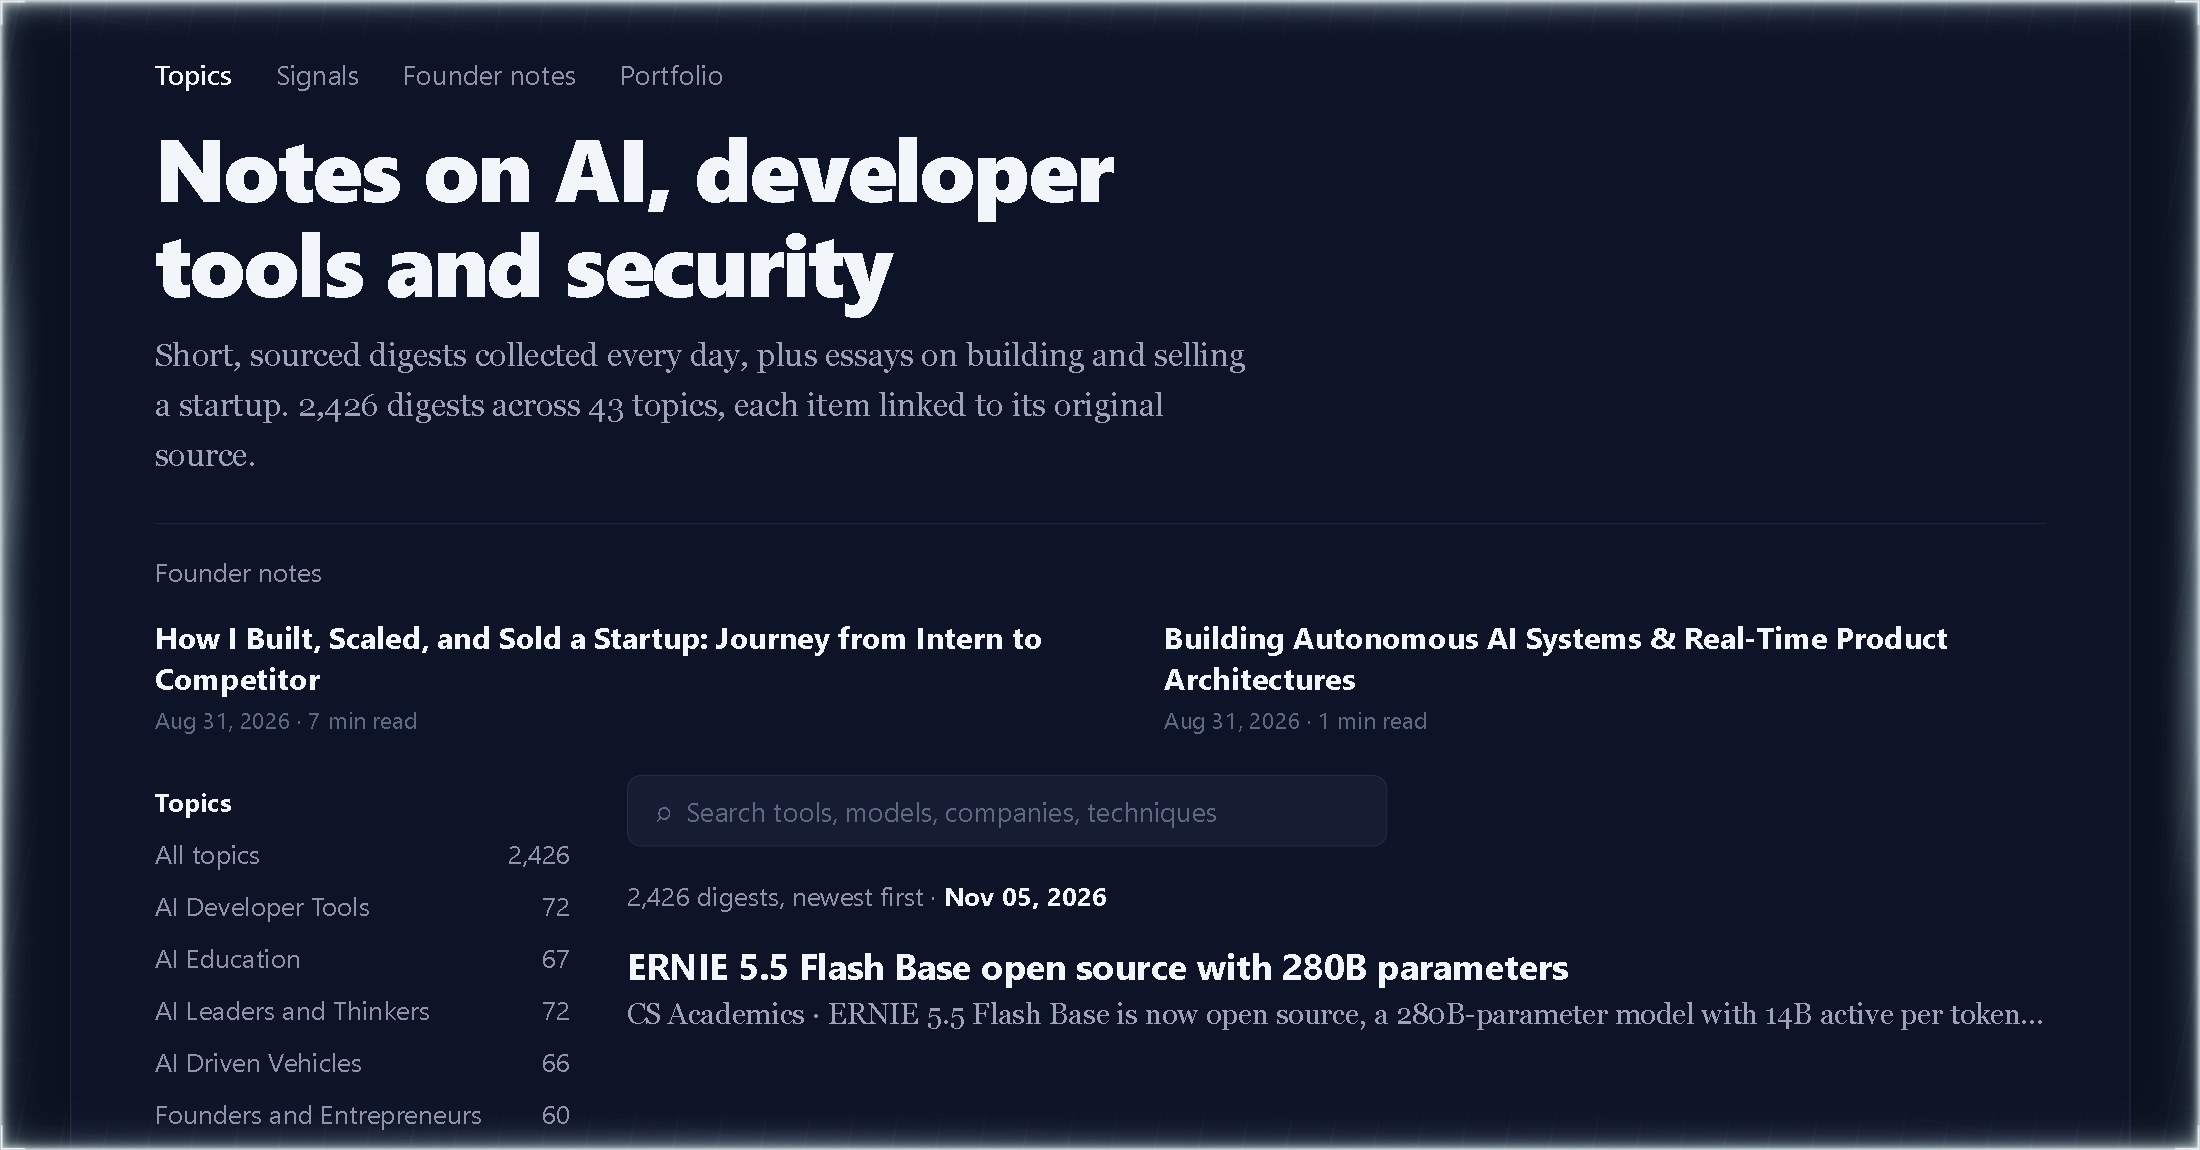
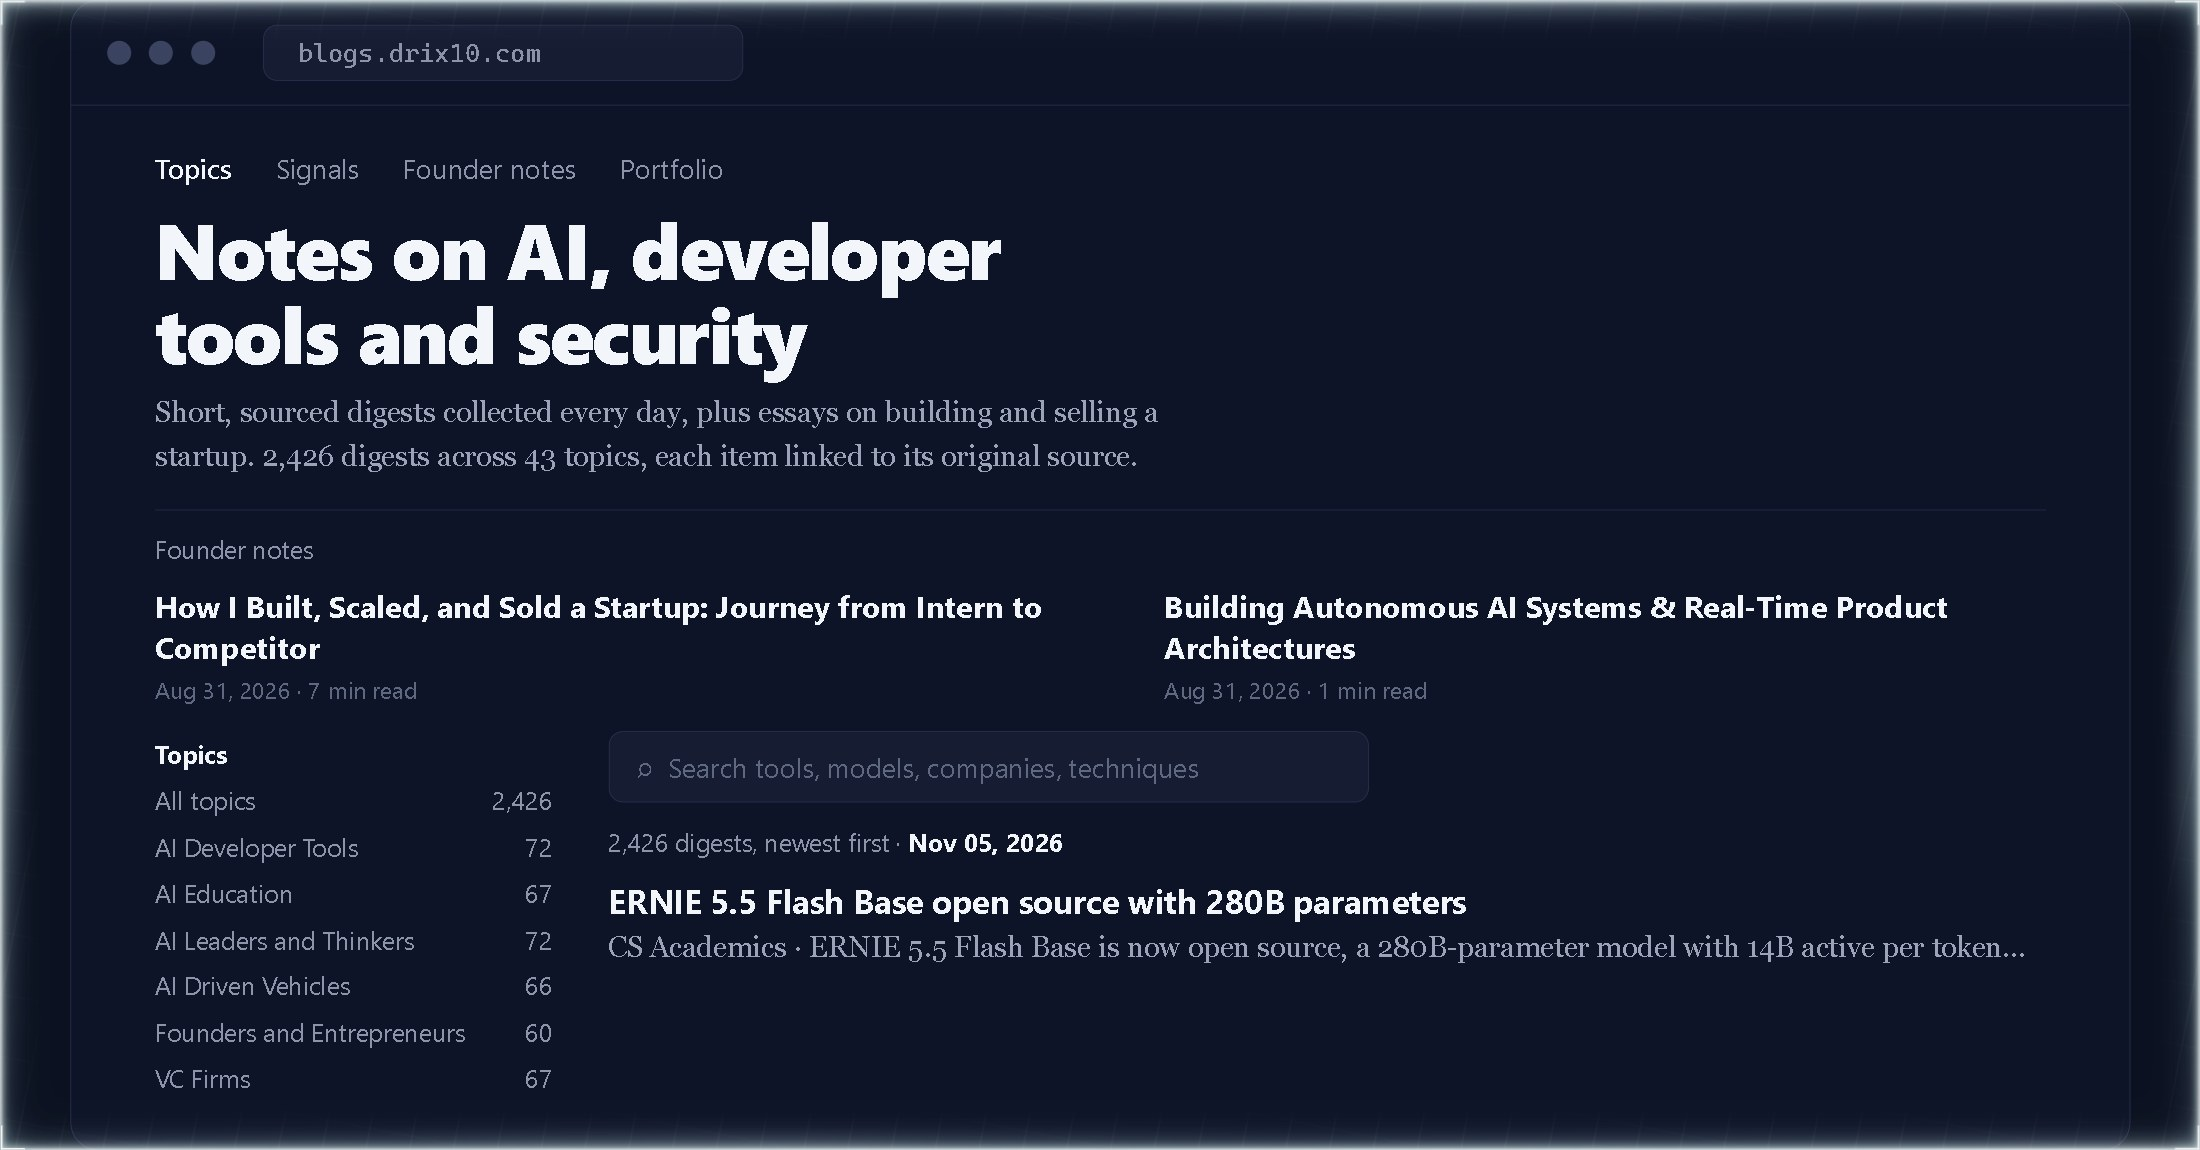
Fix image clipping: fit all content to exact target sizes

diff --git a/assets/readme/src/briefing.html b/assets/readme/src/briefing.html
@@ -3,24 +3,24 @@
 <style>
   * { margin:0; padding:0; box-sizing:border-box; }
   body { width:2560px; height:1200px; background:#0B1120; color:#F2F5FA; font-family:"Segoe UI",system-ui,sans-serif; overflow:hidden; display:flex; align-items:center; justify-content:center; gap:70px; }
-  .card { width:1310px; background:#131A30; border:1px solid #28314F; border-radius:28px; padding:56px 68px; }
+  .card { width:1310px; background:#131A30; border:1px solid #28314F; border-radius:28px; padding:44px 68px; }
   .meta { display:flex; align-items:center; justify-content:space-between; border-bottom:1px solid #232B47; padding-bottom:34px; font-family:"Cascadia Code",Consolas,monospace; font-size:29px; color:#8B94A9; }
   .ok { color:#3ED598; border:1px solid #1F5C44; background:#12281F; border-radius:14px; padding:12px 26px; font-size:27px; }
-  h2 { font-size:62px; font-weight:800; line-height:1.28; margin:44px 0 34px; letter-spacing:-1px; }
-  .side { position:relative; padding-left:78px; margin:30px 0; }
+  h2 { font-size:57px; font-weight:800; line-height:1.24; margin:32px 0 26px; letter-spacing:-1px; }
+  .side { position:relative; padding-left:78px; margin:22px 0; }
   .side .n { position:absolute; left:0; top:2px; width:52px; height:52px; border-radius:50%; background:#8B93FF; color:#0B1120; font-weight:800; font-size:30px; display:flex; align-items:center; justify-content:center; }
   .side p { font-family:Georgia,serif; font-size:36px; line-height:1.6; color:#C3CCDF; }
-  .kp { font-size:30px; color:#8B94A9; margin:34px 0 20px; }
+  .kp { font-size:29px; color:#8B94A9; margin:28px 0 16px; }
   .bul { font-family:Georgia,serif; font-size:34px; line-height:1.6; color:#C3CCDF; margin-left:34px; }
   .bul b { color:#F5B544; font-family:"Cascadia Code",Consolas,monospace; font-weight:700; }
   .link { font-family:"Cascadia Code",Consolas,monospace; font-size:30px; color:#8B94A9; margin-top:22px; }
   .link a { color:#8B93FF; text-decoration:none; }
-  .right { width:640px; }
-  .step { display:flex; gap:26px; margin-bottom:56px; }
+  .right { width:640px; padding-top:6px; }
+  .step { display:flex; gap:24px; margin-bottom:44px; }
   .step .n { flex:none; width:58px; height:58px; border-radius:50%; background:#8B93FF; color:#0B1120; font-weight:800; font-size:32px; display:flex; align-items:center; justify-content:center; }
-  .step h4 { font-size:38px; font-weight:700; margin-bottom:10px; }
-  .step p { font-size:31px; line-height:1.5; color:#8B94A9; }
-  .gate { border:1px solid #1F5C44; background:#0F241B; border-radius:22px; padding:34px 38px; font-size:31px; line-height:1.55; color:#C3CCDF; }
+  .step h4 { font-size:36px; font-weight:700; margin-bottom:8px; }
+  .step p { font-size:30px; line-height:1.48; color:#8B94A9; }
+  .gate { border:1px solid #1F5C44; background:#0F241B; border-radius:22px; padding:30px 34px; font-size:30px; line-height:1.5; color:#C3CCDF; }
   .gate b { color:#3ED598; }
 </style></head>
 <body>

diff --git a/assets/readme/src/blog.html b/assets/readme/src/blog.html
@@ -7,23 +7,23 @@
   .bar { display:flex; align-items:center; gap:18px; padding:24px 36px; border-bottom:1px solid #28314F; }
   .d { width:24px; height:24px; border-radius:50%; background:#3A4360; }
   .url { margin-left:30px; background:#161D33; border:1px solid #28314F; border-radius:14px; padding:12px 34px; font-family:"Cascadia Code",Consolas,monospace; font-size:26px; color:#8B94A9; width:480px; }
-  .body { padding:56px 84px 64px; }
+  .body { padding:44px 84px 48px; }
   .nav { display:flex; gap:44px; font-size:27px; color:#8B94A9; margin-bottom:10px; }
   .nav b { color:#F2F5FA; font-weight:600; }
-  h1 { font-size:88px; font-weight:800; letter-spacing:-2px; line-height:1.08; margin:26px 0 22px; max-width:1200px; }
-  .sub { font-family:Georgia,serif; font-size:32px; line-height:1.55; color:#9AA3B8; max-width:1100px; }
-  .sec { margin-top:44px; border-top:1px solid #232B47; padding-top:30px; font-size:26px; color:#8B94A9; }
-  .cols { display:flex; gap:60px; margin-top:26px; }
+  h1 { font-size:78px; font-weight:800; letter-spacing:-2px; line-height:1.08; margin:20px 0 16px; max-width:1200px; }
+  .sub { font-family:Georgia,serif; font-size:29px; line-height:1.5; color:#9AA3B8; max-width:1100px; }
+  .sec { margin-top:32px; border-top:1px solid #232B47; padding-top:22px; font-size:25px; color:#8B94A9; }
+  .cols { display:flex; gap:60px; margin-top:20px; }
   .founder h4 { font-size:30px; margin-bottom:6px; }
   .founder p { font-size:29px; line-height:1.45; max-width:640px; }
   .founder small { font-size:23px; color:#5E6880; }
-  .topics { margin-top:40px; display:flex; gap:56px; }
-  .tlist { font-size:26px; color:#8B94A9; line-height:2; }
+  .topics { margin-top:26px; display:flex; gap:56px; }
+  .tlist { font-size:25px; color:#8B94A9; line-height:1.85; }
   .tlist b { color:#F2F5FA; } .tlist .n { float:right; margin-left:60px; }
   .search { background:#161D33; border:1px solid #28314F; border-radius:14px; padding:16px 28px; font-size:27px; color:#5E6880; width:760px; }
-  .row { margin-top:30px; font-size:26px; color:#8B94A9; }
+  .row { margin-top:22px; font-size:25px; color:#8B94A9; }
   .row b { color:#F2F5FA; }
-  .item { margin-top:28px; } .item h4 { font-size:36px; } .item p { font-family:Georgia,serif; font-size:29px; color:#9AA3B8; margin-top:8px; }
+  .item { margin-top:20px; } .item h4 { font-size:33px; } .item p { font-family:Georgia,serif; font-size:29px; color:#9AA3B8; margin-top:8px; }
 </style></head>
 <body>
 <div class="win">

diff --git a/assets/readme/src/agent.html b/assets/readme/src/agent.html
@@ -4,17 +4,17 @@
   * { margin:0; padding:0; box-sizing:border-box; }
   body { width:2200px; height:1116px; background:#0B1120; color:#F2F5FA; font-family:"Cascadia Code","Cascadia Mono",Consolas,monospace; overflow:hidden; display:flex; align-items:center; justify-content:center; }
   .term { width:2040px; background:#0E1428; border:1px solid #28314F; border-radius:28px; overflow:hidden; }
-  .bar { display:flex; align-items:center; gap:18px; padding:26px 36px; border-bottom:1px solid #28314F; }
+  .bar { display:flex; align-items:center; gap:18px; padding:20px 36px; border-bottom:1px solid #28314F; }
   .d { width:26px; height:26px; border-radius:50%; background:#3A4360; }
   .title { margin-left:14px; font-size:30px; color:#8B94A9; }
-  .body { padding:38px 64px 46px; font-size:34px; line-height:1.48; }
+  .body { padding:30px 64px 36px; font-size:32px; line-height:1.45; }
   .cmd { color:#F2F5FA; } .cmd .p { color:#3ED598; }
-  .qbox { border:1px solid #3A4480; border-radius:20px; padding:24px 40px; margin:30px 0 26px; color:#F2F5FA; }
+  .qbox { border:1px solid #3A4480; border-radius:18px; padding:20px 40px; margin:26px 0 22px; color:#F2F5FA; }
   .qbox .q { color:#8B93FF; }
-  .tool { color:#F2F5FA; margin:10px 0 6px; } .tool .b { color:#8B93FF; } .tool .k { color:#F5B544; }
+  .tool { color:#F2F5FA; margin:8px 0 4px; } .tool .b { color:#8B93FF; } .tool .k { color:#F5B544; }
   .res { border-left:2px solid #3A4480; margin:20px 0 20px 8px; padding-left:36px; color:#8B94A9; }
   .res div { margin:10px 0; } .res .d2 { color:#5E6880; }
-  .ans { font-family:Georgia,serif; font-size:33px; line-height:1.6; color:#DBE1EE; margin-top:26px; }
+  .ans { font-family:Georgia,serif; font-size:31px; line-height:1.55; color:#DBE1EE; margin-top:22px; }
   .ans sup { color:#8B93FF; font-size:22px; }
   .src { margin-top:22px; font-size:29px; color:#8B94A9; } .src .n { color:#8B93FF; }
   .data { margin-top:10px; font-size:29px; color:#5E6880; }
